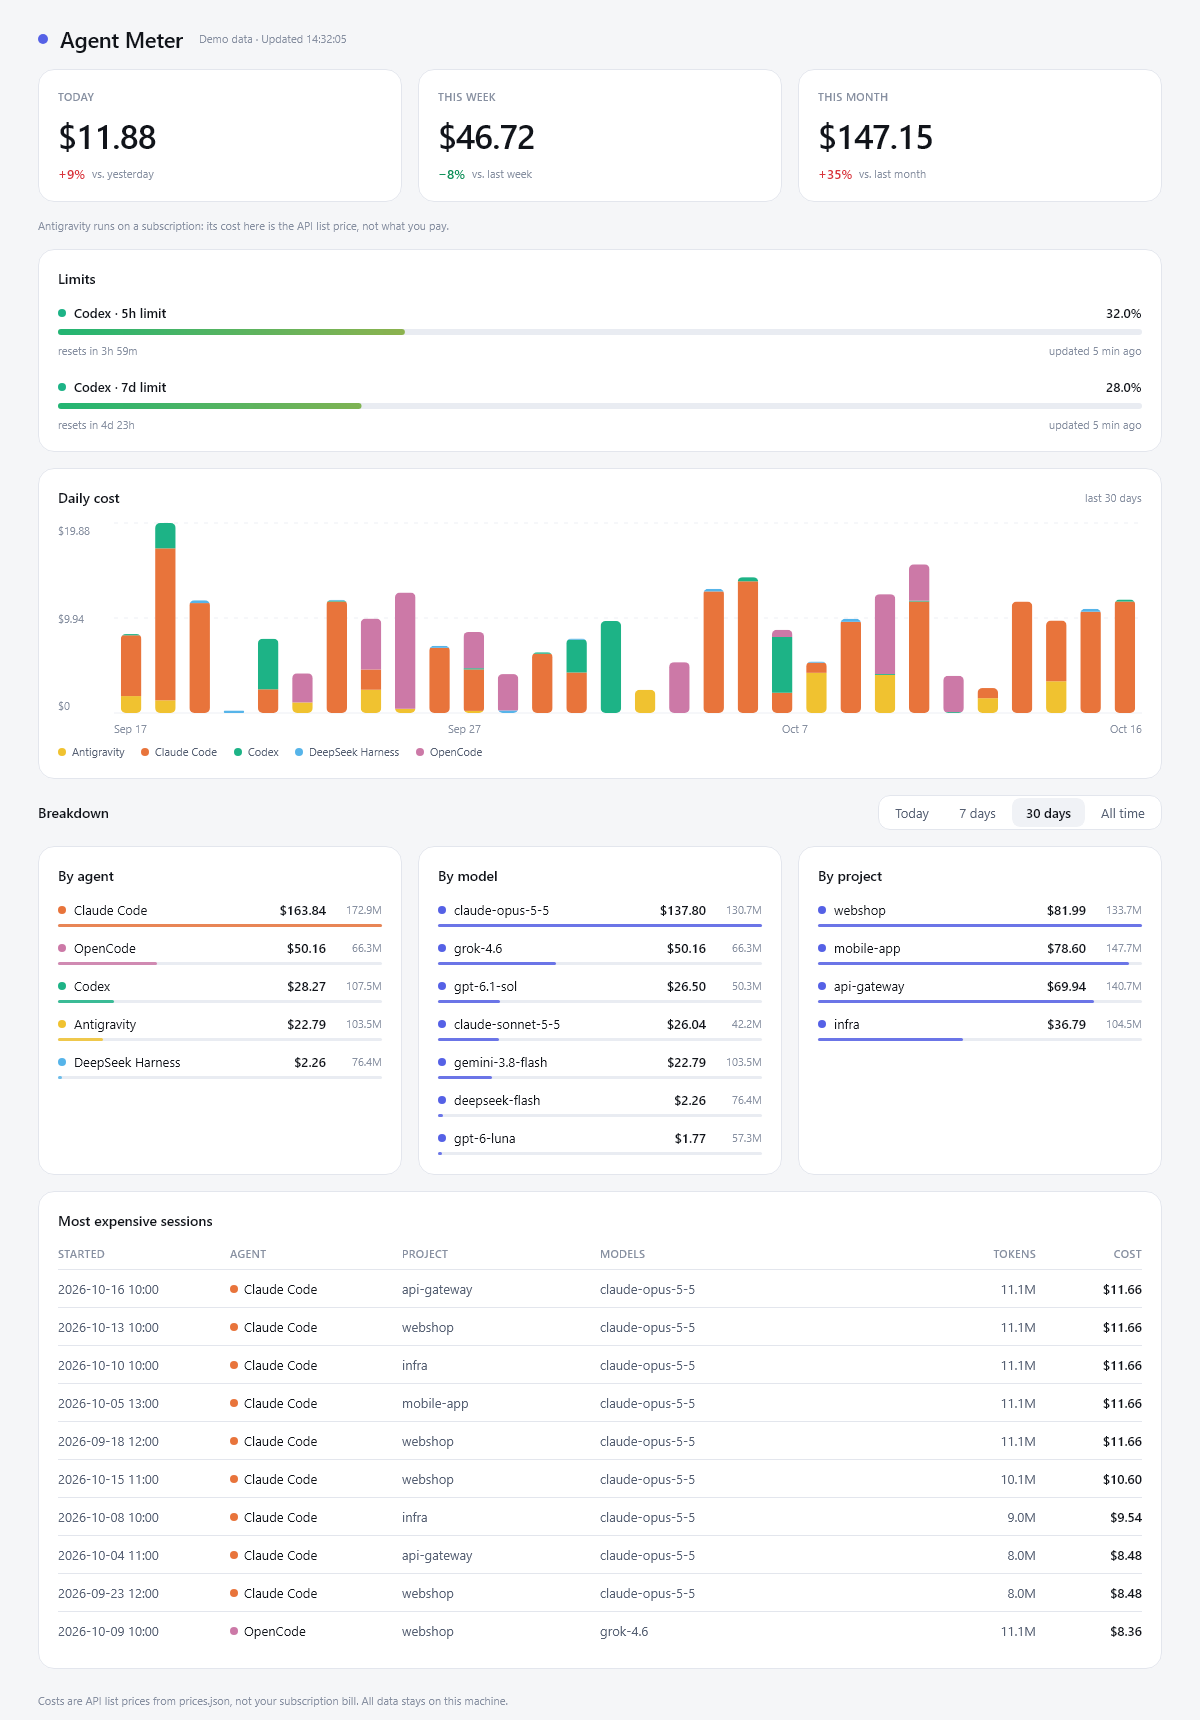
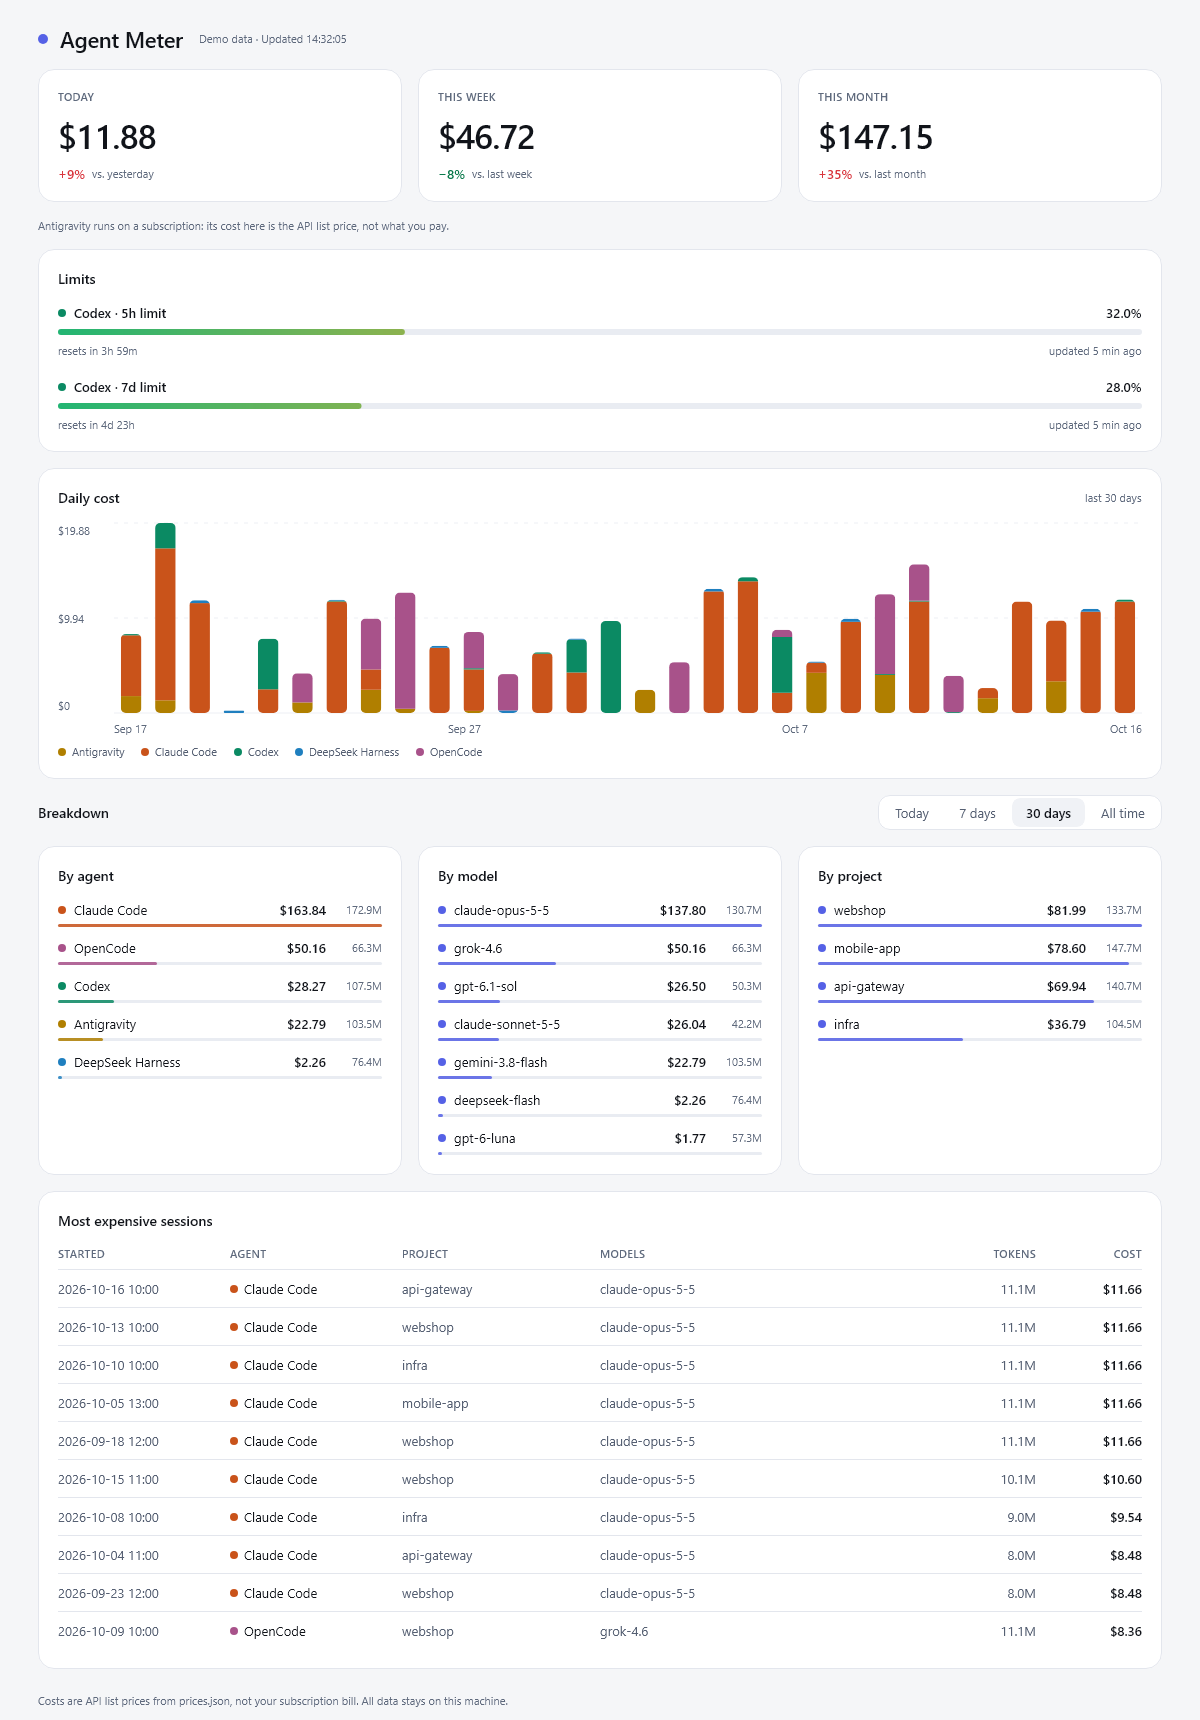
UI accessibility pass: contrast-safe muted text, darker agent colours in light mode, chart summary

Changed region(s): [[0.2158, 0.3081, 0.9558, 0.4314], [0.0925, 0.3081, 0.185, 0.4314], [0.0617, 0.5547, 0.0925, 0.5855]]

diff --git a/src/main/kotlin/dev/agentmeter/ui/Chart.kt b/src/main/kotlin/dev/agentmeter/ui/Chart.kt
@@ -19,6 +19,8 @@ import androidx.compose.ui.input.pointer.PointerEventType
 import androidx.compose.ui.input.pointer.pointerInput
 import androidx.compose.ui.layout.onSizeChanged
 import androidx.compose.ui.platform.LocalDensity
+import androidx.compose.ui.semantics.contentDescription
+import androidx.compose.ui.semantics.semantics
 import androidx.compose.ui.unit.IntOffset
 import androidx.compose.ui.unit.dp
 import androidx.compose.ui.unit.sp
@@ -38,6 +40,7 @@ private val TOOLTIP_WIDTH = 210.dp
 @Composable
 fun DailyChart(d: Dashboard) {
     val c = AM.colors
+    val dark = c.dark
     val days = d.daily
     val max = days.maxOfOrNull { it.second.values.sum() }?.takeIf { it > 0 } ?: 1.0
     val agents = days.flatMap { it.second.keys }.toSortedSet()
@@ -46,7 +49,10 @@ fun DailyChart(d: Dashboard) {
     val progress = animatedProgress(days)
     val density = LocalDensity.current
 
-    Column(verticalArrangement = Arrangement.spacedBy(AM.spacing.sm)) {
+    val peak = days.maxByOrNull { it.second.values.sum() }
+    val summary = "Daily cost, last ${days.size} days, total ${usd(days.sumOf { it.second.values.sum() })}" +
+        (peak?.let { ", highest on ${tooltipDate(it.first)}: ${usd(it.second.values.sum())}" } ?: "")
+    Column(Modifier.semantics { contentDescription = summary }, verticalArrangement = Arrangement.spacedBy(AM.spacing.sm)) {
         Row {
             Column(Modifier.height(CHART_HEIGHT).width(56.dp), verticalArrangement = Arrangement.SpaceBetween) {
                 Text(usd(max), style = AM.type.caption.copy(fontFeatureSettings = "tnum"), color = c.textMuted)
@@ -90,7 +96,7 @@ fun DailyChart(d: Dashboard) {
                             for (a in agents) {
                                 val h = ((byAgent[a] ?: 0.0) / max * size.height).toFloat() * progress
                                 if (h <= 0f) continue
-                                drawRect(agentColor(a), Offset(x0, y - h), Size(barW, h))
+                                drawRect(agentColor(a, dark), Offset(x0, y - h), Size(barW, h))
                                 y -= h
                             }
                         }
@@ -112,7 +118,7 @@ fun DailyChart(d: Dashboard) {
         Row(horizontalArrangement = Arrangement.spacedBy(AM.spacing.lg), verticalAlignment = Alignment.CenterVertically) {
             agents.forEach { a ->
                 Row(verticalAlignment = Alignment.CenterVertically, horizontalArrangement = Arrangement.spacedBy(6.dp)) {
-                    Dot(agentColor(a))
+                    Dot(agentColor(a, dark))
                     Text(agentLabel(a), style = AM.type.caption, color = c.textSecondary)
                 }
             }
@@ -135,7 +141,7 @@ private fun Tooltip(day: LocalDate, byAgent: Map<String, Double>, modifier: Modi
         if (rows.isEmpty()) Text("No usage", style = AM.type.caption, color = c.textMuted)
         rows.forEach { (a, cost) ->
             Row(verticalAlignment = Alignment.CenterVertically, horizontalArrangement = Arrangement.spacedBy(6.dp)) {
-                Dot(agentColor(a))
+                Dot(agentColor(a, c.dark))
                 Text(agentLabel(a), style = AM.type.caption, color = c.textSecondary, modifier = Modifier.weight(1f))
                 Text(usd(cost), style = AM.type.numeric.copy(fontSize = 12.sp), color = c.textPrimary)
             }

diff --git a/src/main/kotlin/dev/agentmeter/ui/theme/Color.kt b/src/main/kotlin/dev/agentmeter/ui/theme/Color.kt
@@ -33,7 +33,7 @@ val DarkColors = AgentMeterColors(
     border = Color(0xFF222733),
     textPrimary = Color(0xFFECEEF4),
     textSecondary = Color(0xFFA0A7B8),
-    textMuted = Color(0xFF6C7384),
+    textMuted = Color(0xFF8189A0),
     accent = Color(0xFF8B93FF),
     positive = Color(0xFF3DD68C),
     negative = Color(0xFFFF7A7A),
@@ -53,11 +53,11 @@ val LightColors = AgentMeterColors(
     border = Color(0xFFE3E6ED),
     textPrimary = Color(0xFF11141A),
     textSecondary = Color(0xFF566073),
-    textMuted = Color(0xFF8790A1),
+    textMuted = Color(0xFF5F6A7D),
     accent = Color(0xFF5561E6),
-    positive = Color(0xFF12915B),
+    positive = Color(0xFF0B7A4C),
     negative = Color(0xFFD9363E),
-    warning = Color(0xFFB7791F),
+    warning = Color(0xFF8F5F00),
     track = Color(0xFFE9ECF2),
     grid = Color(0xFFEDEFF4),
     limitLow = Color(0xFF22B573),
@@ -68,16 +68,25 @@ val LightColors = AgentMeterColors(
 /**
  * One colour per agent, taken from the Okabe-Ito palette that stays distinguishable with the common kinds of
  * colour blindness (they also differ in lightness, so the stacked chart works in grayscale).
+ * The light variants are darker so every one has at least 3:1 contrast against a white surface.
  */
-private val agentPalette = mapOf(
+private val agentPaletteDark = mapOf(
     "claude-code" to Color(0xFFE8743B), // vermillion
     "codex" to Color(0xFF1DB386), // bluish green
     "opencode" to Color(0xFFCC79A7), // reddish purple
     "deepseek-harness" to Color(0xFF56B4E9), // sky blue
     "antigravity" to Color(0xFFF0C230), // yellow
 )
+private val agentPaletteLight = mapOf(
+    "claude-code" to Color(0xFFC9531A),
+    "codex" to Color(0xFF0B8A63),
+    "opencode" to Color(0xFFA8528A),
+    "deepseek-harness" to Color(0xFF1F7FBF),
+    "antigravity" to Color(0xFFB07F00),
+)
 
-fun agentColor(agent: String): Color = agentPalette[agent] ?: Color(0xFF8C93A6)
+fun agentColor(agent: String, dark: Boolean = true): Color =
+    (if (dark) agentPaletteDark else agentPaletteLight)[agent] ?: Color(0xFF8C93A6)
 
 /** Display name for an agent id. */
 fun agentLabel(agent: String): String = when (agent) {

diff --git a/src/main/kotlin/dev/agentmeter/ui/Dashboard.kt b/src/main/kotlin/dev/agentmeter/ui/Dashboard.kt
@@ -156,7 +156,7 @@ private fun Content(d: Dashboard, range: Range, onRange: (Range) -> Unit) {
         SegmentedControl(Range.entries.toList(), range, { it.label }, onRange)
     }
     Row(Modifier.height(IntrinsicSize.Max), horizontalArrangement = Arrangement.spacedBy(AM.spacing.lg)) {
-        Panel("By agent", Modifier.weight(1f).fillMaxHeight()) { BreakdownList(d.byAgent, label = ::agentLabel, dot = ::agentColor) }
+        Panel("By agent", Modifier.weight(1f).fillMaxHeight()) { BreakdownList(d.byAgent, label = ::agentLabel, dot = { agentColor(it, c.dark) }) }
         Panel("By model", Modifier.weight(1f).fillMaxHeight()) {
             BreakdownList(d.byModel, label = { if (it in d.estimatedModels) "$it (estimated)" else it }, dot = { c.accent })
         }
@@ -259,7 +259,7 @@ private fun Sessions(d: Dashboard) {
         Row(Modifier.padding(vertical = 10.dp), verticalAlignment = Alignment.CenterVertically) {
             Text(tsFormat.format(Instant.ofEpochMilli(s.firstTs)), style = AM.type.numeric, color = c.textSecondary, modifier = Modifier.weight(cols[0]))
             Row(Modifier.weight(cols[1]), verticalAlignment = Alignment.CenterVertically, horizontalArrangement = Arrangement.spacedBy(6.dp)) {
-                Dot(agentColor(s.agent))
+                Dot(agentColor(s.agent, c.dark))
                 Text(agentLabel(s.agent), style = AM.type.body, color = c.textPrimary, maxLines = 1, overflow = TextOverflow.Ellipsis)
             }
             Text(s.project?.let(::projectName) ?: "—", style = AM.type.body, color = c.textSecondary, modifier = Modifier.weight(cols[2]), maxLines = 1, overflow = TextOverflow.Ellipsis)

diff --git a/src/main/kotlin/dev/agentmeter/ui/Limits.kt b/src/main/kotlin/dev/agentmeter/ui/Limits.kt
@@ -40,7 +40,7 @@ fun LimitsCard(rateLimits: List<RateLimitSnapshot>) {
 
             Column(verticalArrangement = Arrangement.spacedBy(AM.spacing.sm)) {
                 Row(Modifier.fillMaxWidth(), verticalAlignment = Alignment.CenterVertically) {
-                    Dot(agentColor(s.agent))
+                    Dot(agentColor(s.agent, c.dark))
                     Spacer(Modifier.width(AM.spacing.sm))
                     Text("${agentLabel(s.agent)} · ${limitName(s.window)}", style = AM.type.bodyStrong, color = c.textPrimary, modifier = Modifier.weight(1f))
                     Text(if (isReset) "—" else "${String.format(Locale.US, "%.1f", s.usedPercent)}%", style = AM.type.numericStrong, color = valueColor)

diff --git a/src/main/kotlin/dev/agentmeter/ui/Components.kt b/src/main/kotlin/dev/agentmeter/ui/Components.kt
@@ -117,7 +117,7 @@ fun EmptyState(modifier: Modifier = Modifier) {
         verticalArrangement = Arrangement.spacedBy(AM.spacing.md),
     ) {
         Row(horizontalArrangement = Arrangement.spacedBy(AM.spacing.sm)) {
-            listOf("claude-code", "codex", "opencode", "deepseek-harness", "antigravity").forEach { Dot(dev.agentmeter.ui.theme.agentColor(it), 10.dp) }
+            listOf("claude-code", "codex", "opencode", "deepseek-harness", "antigravity").forEach { Dot(dev.agentmeter.ui.theme.agentColor(it, c.dark), 10.dp) }
         }
         Text("No data yet", style = AM.type.title, color = c.textPrimary)
         Text(
